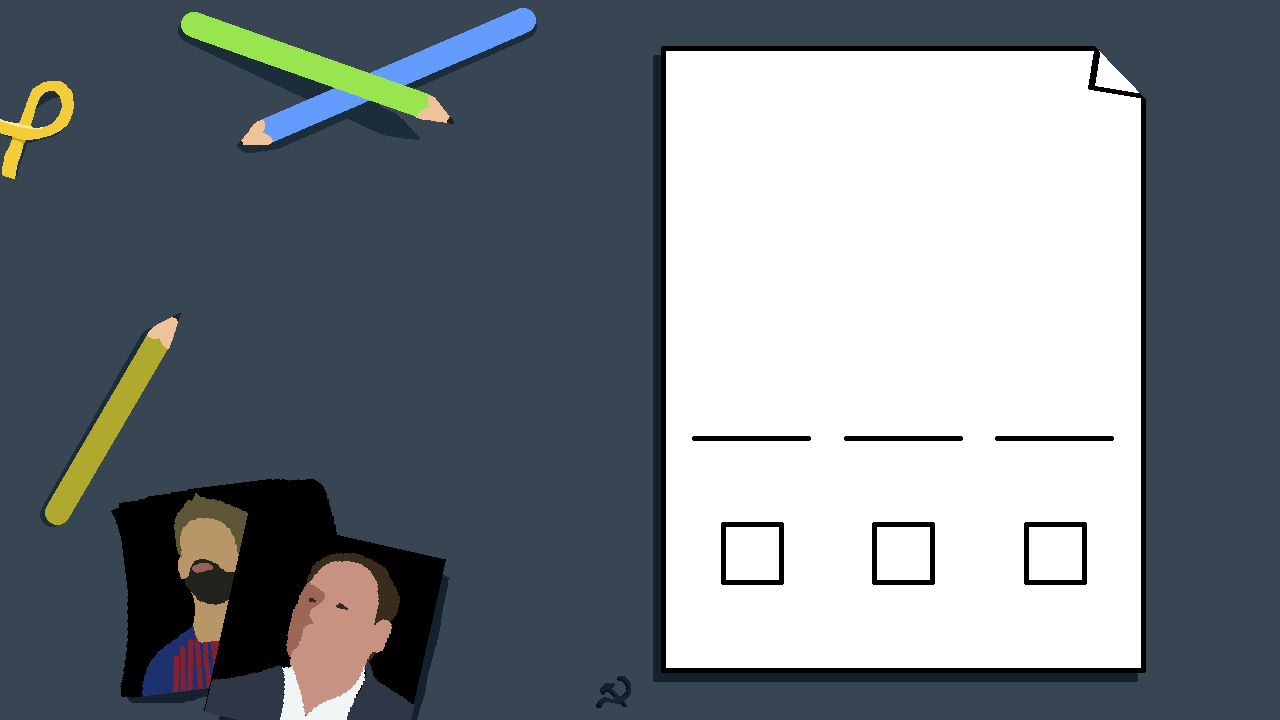
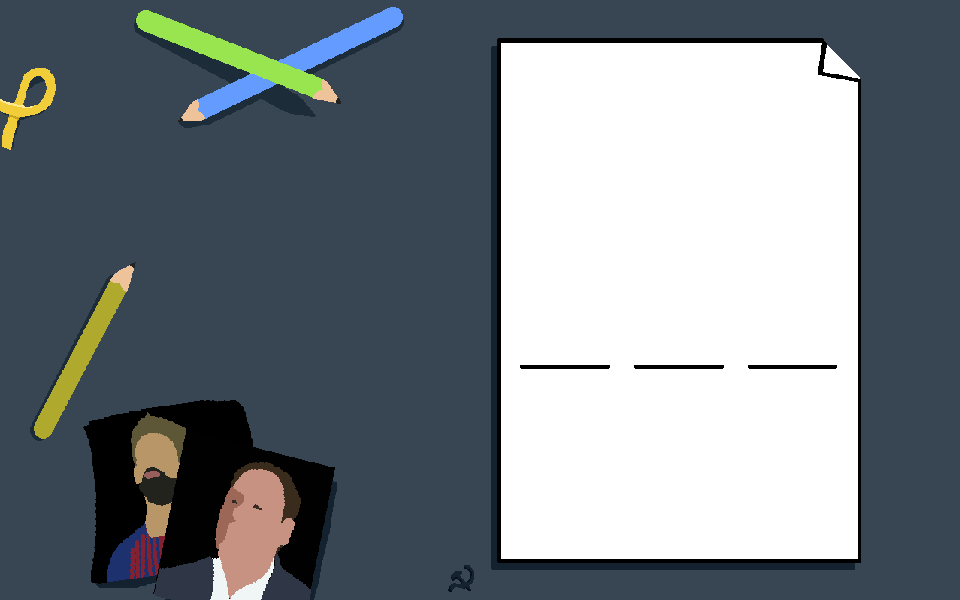
Added Menu Scene

diff --git a/Motor2D/j1Scene.cpp b/Motor2D/j1Scene.cpp
@@ -33,19 +33,30 @@ bool j1Scene::Awake(pugi::xml_node& config)
 
 	
 
+
 	return ret;
 }
 
 // Called before the first frame
 bool j1Scene::Start()
-{
+{	
+	Button* play, *options, *exit;
+	menu_texture = App->tex->Load("maps/menu.png");
+	buttons = App->tex->Load("maps/menu_button.png");
+
+
+	if (level == menu)
+	{
+		App->gui->AddImage(0, 0, menu_texture);
+		play = App->gui->AddButton(542, 436, buttons,this);
+		options = App->gui->AddButton(656, 436, buttons, this);
+		exit = App->gui->AddButton(770, 436, buttons, this);
+		
+	}
 
 	if (level == level_1) {
 		App->map->Load("level1.tmx");
 		App->audio->PlayMusic("audio/music/all_of_us.ogg");
-		App->gui->AddLabel(100, 100, "PATATA", BLACK, FREEPIXEL, 20);
-		App->gui->AddLabel(100, 200, "PATATA", BLACK, MINECRAFT, 20);
-		App->gui->AddLabel(100, 300, "PATATA", BLACK, UPHEAVAL, 20);
 
 	}
 	if (level == level_2) {
@@ -54,6 +65,7 @@ bool j1Scene::Start()
 	if (level == hidden_level) {
 		App->map->Load("hidden_level.tmx");
 	}
+	
 
 	changeMap = false;
 
@@ -138,6 +150,7 @@ bool j1Scene::CleanUp()
 	App->map->CleanUp();
 	App->collision->CleanUp();
 	App->entities->CleanUp();
+	App->gui->CleanUp();
 	return true;
 }
 

diff --git a/Motor2D/j1Gui.h b/Motor2D/j1Gui.h
@@ -63,6 +63,8 @@ public:
 	Label* AddLabel(int x, int y, char* text, uint color, uint font, int size, UIElement* parent = nullptr);
 	Image* AddImage(int x, int y, SDL_Texture* texture, UIElement* parent = nullptr);
 	Button* AddButton(int x, int y, SDL_Texture* texture, j1Module* callback = nullptr, UIElement* parent = nullptr);
+
+
 	SDL_Color GetColor(int color);
 	char* GetFont(uint font);
 

diff --git a/Motor2D/Walking_Enemy.cpp b/Motor2D/Walking_Enemy.cpp
@@ -120,7 +120,7 @@ void Walking_Enemy::Update(float dt)
 
 void Walking_Enemy::Movement()
 {
-	if ((App->scene->level == 0 || App->scene->level == 1 || App->scene->level == 2) && App->fadetoblack->IsFading() == false)
+	if (App->fadetoblack->IsFading() == false)
 	{
 		if (found == true && dead == false) {
 			enemy_position = App->map->WorldToMap(r.x, r.y);

diff --git a/Motor2D/Flying_Enemy.cpp b/Motor2D/Flying_Enemy.cpp
@@ -102,7 +102,7 @@ void Flying_Enemy::Update(float dt)
 
 void Flying_Enemy::Movement()
 {
-	if ((App->scene->level == 0 || App->scene->level == 1 || App->scene->level == 2) && App->fadetoblack->IsFading() == false)
+	if (App->fadetoblack->IsFading() == false)
 	{
 		if (found == true && dead == false) {
 			enemy_position = App->map->WorldToMap(r.x, r.y);

diff --git a/Motor2D/j1Scene.h b/Motor2D/j1Scene.h
@@ -39,20 +39,25 @@ public:
 	void CheckChange();
 
 public:
-	int level;
+	int level = 0;
 	bool justloaded = false;
 	bool changeMap;
+	SDL_Texture* menu_texture, *buttons;
 
 	enum Levels
 	{
+		menu,
 		level_1,
 		level_2,
 		hidden_level,
 		congrats,
 	};
+
 private:
 	iPoint mouse;
 	pugi::xml_node level_name;
+
+	//UI ELEMENTS
 
 };
 

diff --git a/Motor2D/Player.cpp b/Motor2D/Player.cpp
@@ -380,7 +380,7 @@ void Player::Shoot() {
 void Player::CheckIfChange() {
 
 	if (App->entities->lvl2) {
-		App->scene->level = App->scene->level_2;
+		App->scene->level++;
 		App->scene->changeMap = true;
 	}
 

diff --git a/Motor2D/j1Window.cpp b/Motor2D/j1Window.cpp
@@ -77,7 +77,7 @@ bool j1Window::Awake(pugi::xml_node& config)
 			screen_surface = SDL_GetWindowSurface(window);
 
 		}
-
+		SDL_RenderSetLogicalSize(App->render->renderer, 1920, 1080);
 	}
 
 	return ret;

diff --git a/Motor2D/j1Gui.cpp b/Motor2D/j1Gui.cpp
@@ -122,6 +122,7 @@ Button* j1Gui::AddButton(int x, int y, SDL_Texture* texture, j1Module* callback,
 }
 
 
+
 SDL_Color j1Gui::GetColor(int color)
 {
 	SDL_Color ret;
